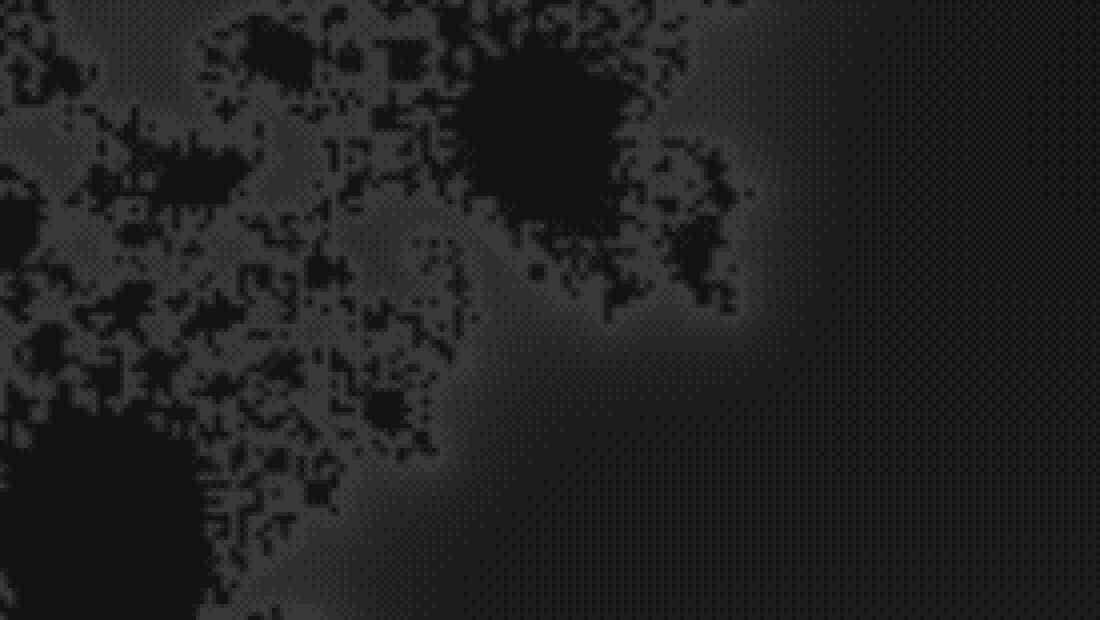
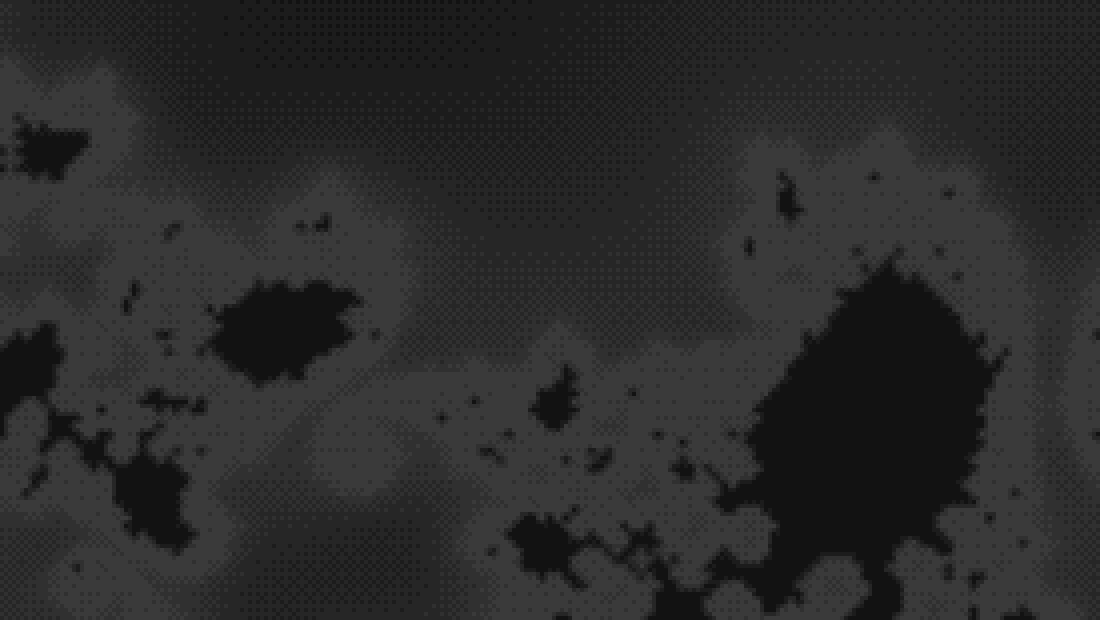
Stop individual cells flickering black to bright
The flicker was a special case that read as obviously correct: an
interior cell was drawn at zero, the darkest the palette goes.

Its neighbour, being right against the boundary, comes out at one. A
cell on the line between them changes classification whenever the view
shifts by less than its own width, which it does constantly, so it was
alternating between the two ends of the palette every frame. Measured at
fixed points in the plane over a recorded camera path - so the view's own
motion does not count as change - 8.5% of consecutive frames at a sample
point were an oscillation rather than a movement.

Nothing had to be added to fix it, only taken away. An interior cell
already carries the budget as its escape count, so the difference against
its neighbours means something: flat in the deep interior, so the
distance comes out enormous and the cell is black, and steep next to the
boundary, so it is bright - which is what its exterior neighbour is too.
The classification stops being a cliff and the flip stops mattering. The
contours are the one exception, since an interior escape count is the
same synthetic number everywhere and banding it would lay a flat tone
over the whole set; they fade out as the distance goes to nothing anyway,
so leaving them off inside costs nothing at the boundary.

That left a tail at 2.4%, from a blind spot rather than a cliff. A
central difference cannot see a feature one cell wide: with exterior on
[…]

diff --git a/src/mandelbrot.ts b/src/mandelbrot.ts
@@ -693,10 +693,17 @@ export function patchAt(m: Mandelbrot, i: number, j: number, out: Float64Array):
     for (let di = -AIM_WINDOW; di <= AIM_WINDOW; di++) {
       const x = i + di;
       if (x < 0 || x >= w) continue;
-      const value = field[y * w + x];
+      // Interior counted as dark, whatever the picture does with it. The
+      // rendering lights the inside of the boundary as well as the outside -
+      // that is what stopped it flickering - but every threshold these numbers
+      // are compared against was measured on "how much lit *exterior* is
+      // there", and interior brightness is a rendering choice rather than
+      // anything about the structure. See the note in `renderMandelbrot`.
+      const dark = inside[y * w + x];
+      const value = dark ? 0 : field[y * w + x];
       sum += value;
       sumSq += value * value;
-      solid += inside[y * w + x];
+      solid += dark;
       count++;
     }
   }
@@ -757,12 +764,6 @@ export function renderMandelbrot(m: Mandelbrot, params: MandelbrotParams = MANDE
 
     for (let i = 0; i < w; i++) {
       const k = row + i;
-      if (inside[k]) {
-        distance[k] = 0;
-        field[k] = 0;
-        continue;
-      }
-
       const im = i > 0 ? i - 1 : i;
       const ip = i < w - 1 ? i + 1 : i;
       const gx = (escape[row + ip] - escape[row + im]) / (ip - im || 1);
@@ -771,9 +772,47 @@ export function renderMandelbrot(m: Mandelbrot, params: MandelbrotParams = MANDE
 
       // A flat neighbourhood means the set is further away than this frame can
       // measure, which is the same thing as very far indeed.
-      const d = gradient > 1e-9 ? 1 / (Math.LN2 * gradient) : 1e9;
+      let d = gradient > 1e-9 ? 1 / (Math.LN2 * gradient) : 1e9;
+
+      // A central difference cannot see a feature one cell wide: with exterior
+      // on both sides of a single interior cell the two halves cancel and the
+      // estimate comes back saying the set is nowhere near - so a one-cell
+      // filament got a dark speck down the middle of its own glow. The
+      // classification knows what the difference cannot, and a cell with a
+      // neighbour on the other side of the line is on the boundary by
+      // definition, whatever the arithmetic makes of its surroundings.
+      if (
+        (i > 0 && inside[k - 1] !== inside[k]) ||
+        (i < w - 1 && inside[k + 1] !== inside[k]) ||
+        (j > 0 && inside[k - w] !== inside[k]) ||
+        (j < h - 1 && inside[k + w] !== inside[k])
+      ) {
+        if (d > TOUCHING) d = TOUCHING;
+      }
+
       distance[k] = d;
-      field[k] = brightnessAt(d, escape[k], params);
+      // The interior goes through the same estimate as everything else, and
+      // that is what stops the picture flickering. It used to be forced to
+      // zero - the darkest the palette goes - while the cell beside it, being
+      // right against the boundary, came out at one. A cell on the line
+      // between them flips classification whenever the view shifts by less
+      // than its own width, so it was alternating between the two ends of the
+      // palette from frame to frame: 9.25% of cells doing that every frame.
+      //
+      // Nothing had to be added to fix it, only taken away. An interior cell
+      // already carries the budget as its escape count, so the difference
+      // against its neighbours means something: flat in the deep interior, so
+      // the distance comes out enormous and it is dark, and steep next to the
+      // boundary, so it is bright - which is what its exterior neighbour is
+      // too. The classification stops being a cliff and the flip stops
+      // mattering.
+      //
+      // The contours are the exception. An interior escape count is the same
+      // synthetic number everywhere, so banding it would lay a flat tone over
+      // the whole set and shift it every time the budget ticks up. They fade
+      // out as the distance goes to nothing anyway, so leaving them off inside
+      // costs no continuity at the boundary.
+      field[k] = inside[k] ? params.glow / (d + params.glow) : brightnessAt(d, escape[k], params);
     }
   }
 }
@@ -1188,15 +1227,19 @@ function lakePush(m: Mandelbrot, i: number, j: number, out: Float64Array): numbe
  * caller's cue to have `aimAt` seat the goal somewhere else.
  */
 export function traceStep(m: Mandelbrot, params: MandelbrotParams, dt: number): boolean {
-  const { w, h, field, distance, state: s } = m;
+  const { w, h, escape, distance, state: s } = m;
   cellOf(m, s.goalX, s.goalY, m.cell);
   const i = Math.round(m.cell[0]);
   const j = Math.round(m.cell[1]);
   if (i < 1 || i > w - 2 || j < 1 || j > h - 2) return false;
 
   const k = j * w + i;
-  const gx = (field[k + 1] - field[k - 1]) / 2;
-  const gy = (field[k + w] - field[k - w]) / 2;
+  // The escape count, not the brightness. Both rise towards the set, so either
+  // gives the contour - but the escape count is the potential itself and is
+  // untouched by how the picture chooses to shade the interior, where the
+  // brightness now turns over and would send the walk back on itself.
+  const gx = (escape[k + 1] - escape[k - 1]) / 2;
+  const gy = (escape[k + w] - escape[k - w]) / 2;
   const g = Math.sqrt(gx * gx + gy * gy);
   // Flat: either open exterior or the middle of a lake, and in both the
   // direction to walk is undefined rather than merely uninteresting.
@@ -1300,14 +1343,23 @@ export function frameTone(m: Mandelbrot, out: Float64Array): void {
   let sum = 0;
   let solid = 0;
   for (let k = 0; k < field.length; k++) {
-    sum += field[k];
-    if (field[k] > LIT_LEVEL) lit++;
+    // Exterior only, for the same reason `patchAt` does it - see there.
+    const value = inside[k] ? 0 : field[k];
+    sum += value;
+    if (value > LIT_LEVEL) lit++;
     solid += inside[k];
   }
   out[0] = lit / field.length;
   out[1] = sum / field.length;
   out[2] = solid / field.length;
 }
+
+/**
+ * The furthest a cell that touches the other side of the classification line
+ * can be from the set, in cells. Half of one, because that is where the
+ * boundary between two neighbours is.
+ */
+const TOUCHING = 0.5;
 
 /** Brightness at which a cell counts as lit rather than as background. */
 const LIT_LEVEL = 0.25;

diff --git a/src/mandelbrot.test.ts b/src/mandelbrot.test.ts
@@ -205,9 +205,46 @@ describe('renderMandelbrot', () => {
     const interior = m.field[cellFor(m, -0.2, 0)];
     const boundary = m.field[cellFor(m, -0.7435, 0.1318)];
     const empty = m.field[cellFor(m, -2.05, 1.1)];
-    expect(interior).toBe(0);
+    // Deep inside, the neighbourhood is flat, so the distance comes out
+    // enormous and the cell is black to any palette that will ever see it.
+    expect(interior).toBeLessThan(0.001);
     expect(boundary).toBeGreaterThan(empty);
     expect(boundary).toBeGreaterThan(0.4);
+  });
+
+  it('has no cliff where a cell stops escaping', () => {
+    // This is what stopped the picture flickering, and it is worth pinning.
+    //
+    // The interior used to be forced to zero - the darkest the palette goes -
+    // while the cell beside it, being right against the boundary, came out at
+    // one. A cell on the line between them changes classification whenever the
+    // view shifts by less than its own width, so it alternated between the two
+    // ends of the palette from frame to frame. Measured at a fixed point in the
+    // plane over a recorded camera path, 8.5% of consecutive frames were an
+    // oscillation rather than a movement; it is 2.4% now, and what is left is
+    // the ordinary marginality of a finite iteration budget rather than a cliff.
+    //
+    // So: across the classification line, neighbours have to agree.
+    const m = seeded();
+    let pairs = 0;
+    let worst = 0;
+
+    for (let j = 1; j < H - 1; j++) {
+      for (let i = 1; i < W - 1; i++) {
+        const k = j * W + i;
+        for (const n of [k + 1, k - 1, k + W, k - W]) {
+          if (m.inside[k] === m.inside[n]) continue;
+          pairs++;
+          worst = Math.max(worst, Math.abs(m.field[k] - m.field[n]));
+        }
+      }
+    }
+
+    expect(pairs).toBeGreaterThan(100);
+    // A cliff would be near 1. Neighbours either side of the line are lit by
+    // the same estimate now, so they land within half a palette step of each
+    // other - and the median pair is within 0.002.
+    expect(worst).toBeLessThan(0.15);
   });
 
   it('measures distance in cells, so halving the cell doubles it', () => {

diff --git a/demo/copy.ts b/demo/copy.ts
@@ -67,6 +67,12 @@ export const COPY: Record<string, Copy> = {
         'a log scale - exactly <code>1 - log2 G</code> - and the distance to the set is <code>G / |grad G|</code>. In ' +
         'terms of what is already on screen that is <code>1 / (ln2 * |grad mu|)</code>: a finite difference over a ' +
         'field that has just been computed. The picture is its own derivative.',
+      'The interior goes through that same estimate rather than being drawn flat black, and that is what stops ' +
+        'individual cells flickering. Forced to zero, an interior cell sat next to a boundary cell at full brightness - ' +
+        'and a cell on the line between them changes classification whenever the view shifts by less than its own ' +
+        'width, so it alternated between the two ends of the palette every frame. Lit by the same estimate as ' +
+        'everything else it is black deep inside, where the neighbourhood is flat, and bright against the boundary, ' +
+        'which is what its neighbour is too.',
       'It antialiases itself as a side effect. A filament thinner than a cell is never sampled, so the difference ' +
         'under-reads the gradient and reports a distance of about one cell instead of zero - and the filament arrives ' +
         'as a soft grey line rather than falling between two samples. Brightness is a function of distance measured in ' +

diff --git a/docs/how-it-works.md b/docs/how-it-works.md
@@ -625,6 +625,46 @@ divided by a span of about 1e-7 to reach the screen: it put the view an eighth o
 it, in one frame, measuring as a ten-fold jump. Measuring from the span the descent actually stopped at makes it exact
 at both ends - `deep` at the turn, `home` at the top.
 
+### The classification must not be a cliff
+
+Individual cells used to flicker between black and bright, frame to frame, and the cause was a special case that read as
+obviously correct: an interior cell was drawn at zero, the darkest the palette goes.
+
+Its neighbour, being right against the boundary, comes out at **one**. A cell on the line between them changes
+classification whenever the view shifts by less than its own width - which it does constantly - so it was alternating
+between the two ends of the palette every frame. Measured at fixed points in the *plane* over a recorded camera path, so
+the view's own motion does not count: **8.5%** of consecutive frames at a sample point were an oscillation rather than a
+movement.
+
+Nothing had to be added to fix it, only taken away. An interior cell already carries the iteration budget as its escape
+count, so the difference against its neighbours means something - flat in the deep interior, so the distance comes out
+enormous and the cell is black, and steep next to the boundary, so it is bright, which is what its exterior neighbour is
+too. The classification stops being a cliff and the flip stops mattering. The contours are the one exception: an interior
+escape count is the same synthetic number everywhere, so banding it would lay a flat tone across the whole set, and they
+fade out as the distance goes to nothing anyway.
+
+That left a tail, at 2.4%, from a blind spot rather than a cliff. **A central difference cannot see a feature one cell
+wide**: with exterior on both sides of a single interior cell the two halves cancel, the estimate reports the set as
+nowhere near, and a one-cell filament got a dark speck down the middle of its own glow. The classification knows what the
+arithmetic cannot - a cell with a neighbour on the other side of the line is *on* the boundary, whatever its
+surroundings make of it - so its distance is capped at half a cell. Worst disagreement across the line went from 0.626 to
+0.104, with a median of 0.002.
+
+| | flicker |
+| --- | --- |
+| as first written | 8.5% |
+| interior lit by the same estimate | 2.4% |
+| plus the one-cell cap | **0.11%** |
+
+Two things that were **not** the cause, both checked before the real one was found. The iteration budget steps up about
+six times a second as the view descends, which reclassifies cells - but reversals on the frames where it ticks (2.55%)
+match the frames where it does not (2.38%). And the exterior contours contribute nothing: with `bands` at zero it is
+2.43% against 2.37%.
+
+What is left is the ordinary marginality of a finite budget - cells that genuinely sit on the edge of escaping within it
+- and the only cure for that is more iterations. At 2,000 the flicker measures zero, and the frame costs six times as
+much.
+
 ### The camera is a mass, and the goal is a walk
 
 Two changes, both about the fact that a zoom is one coherent motion the eye tracks.
